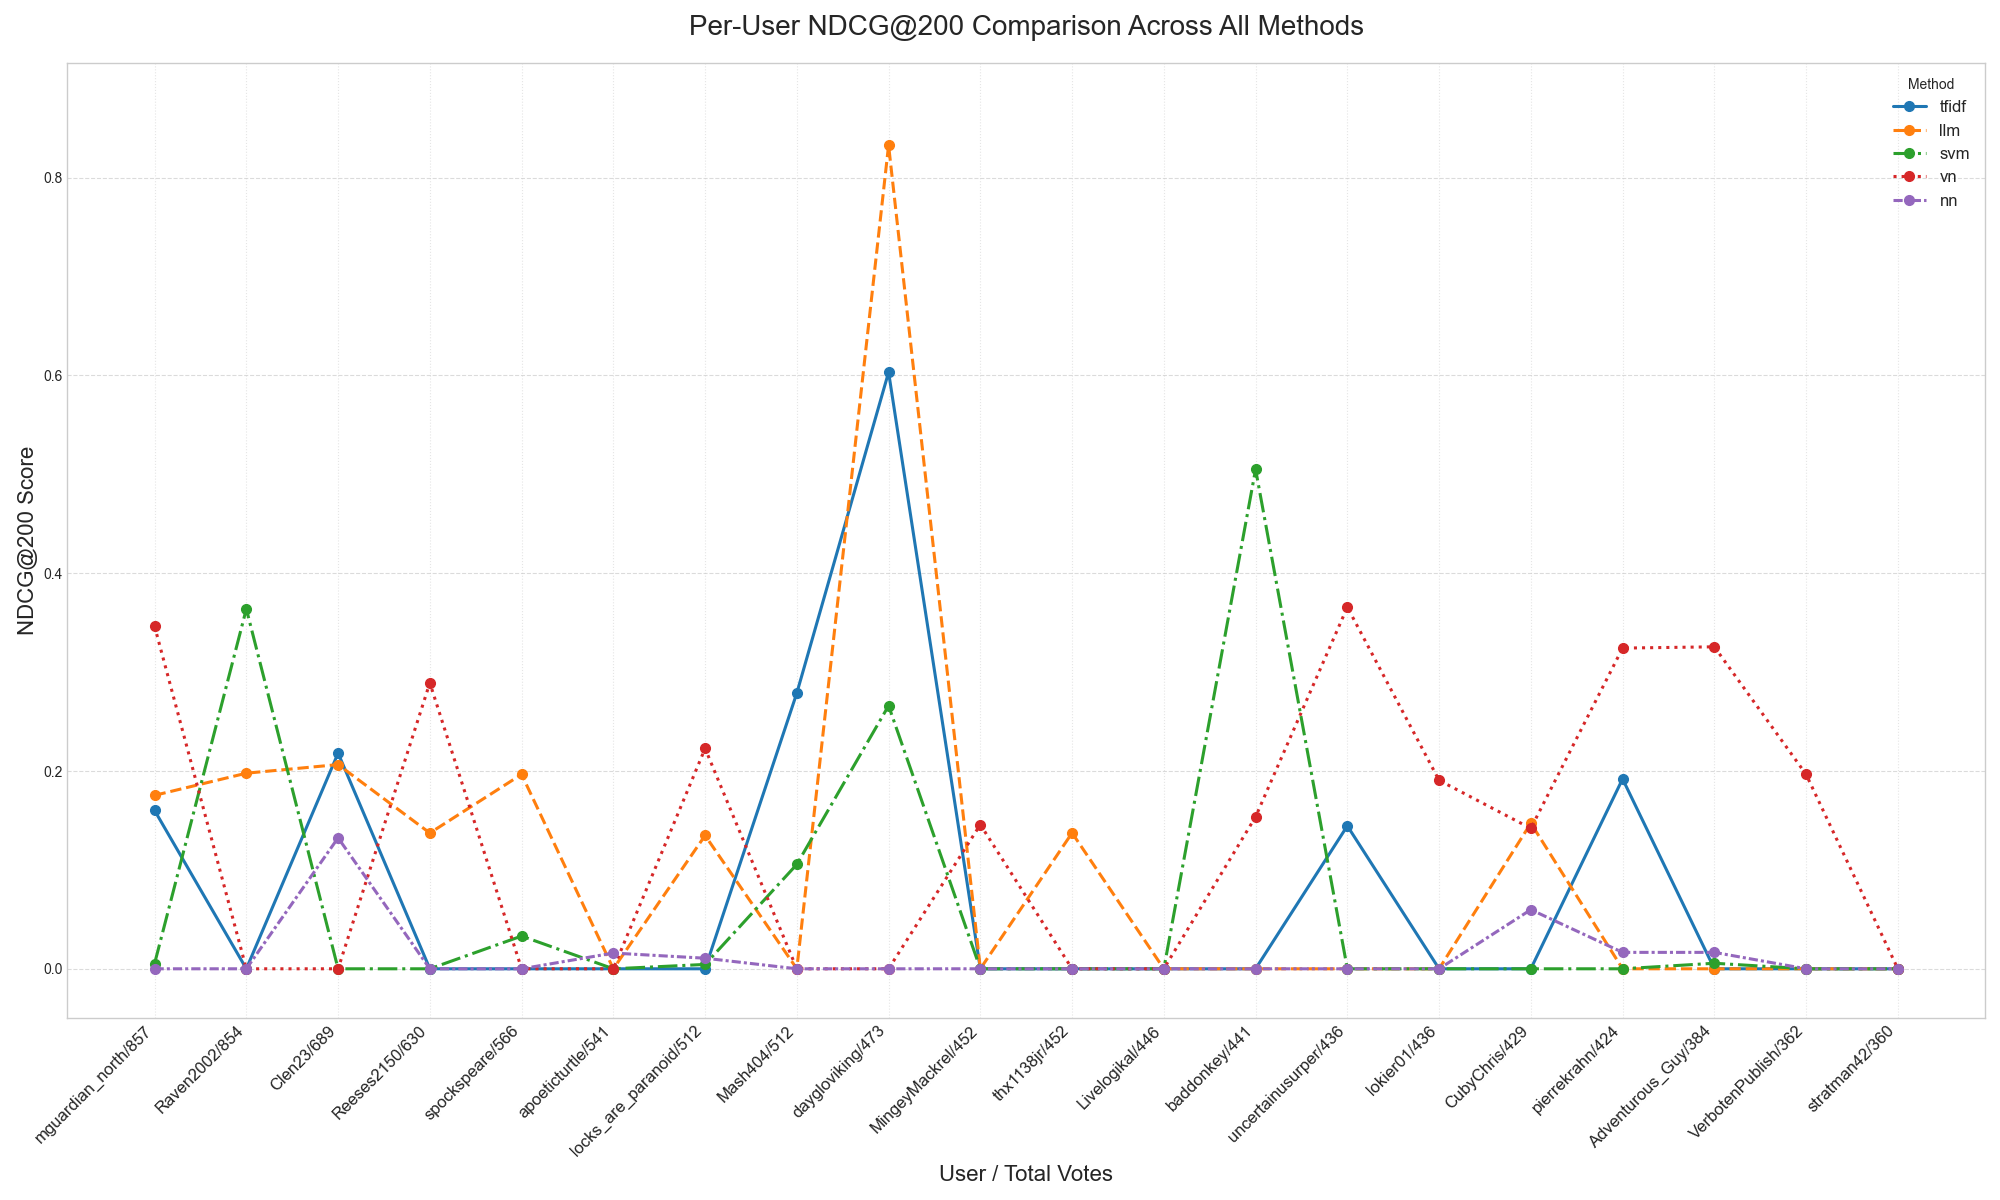
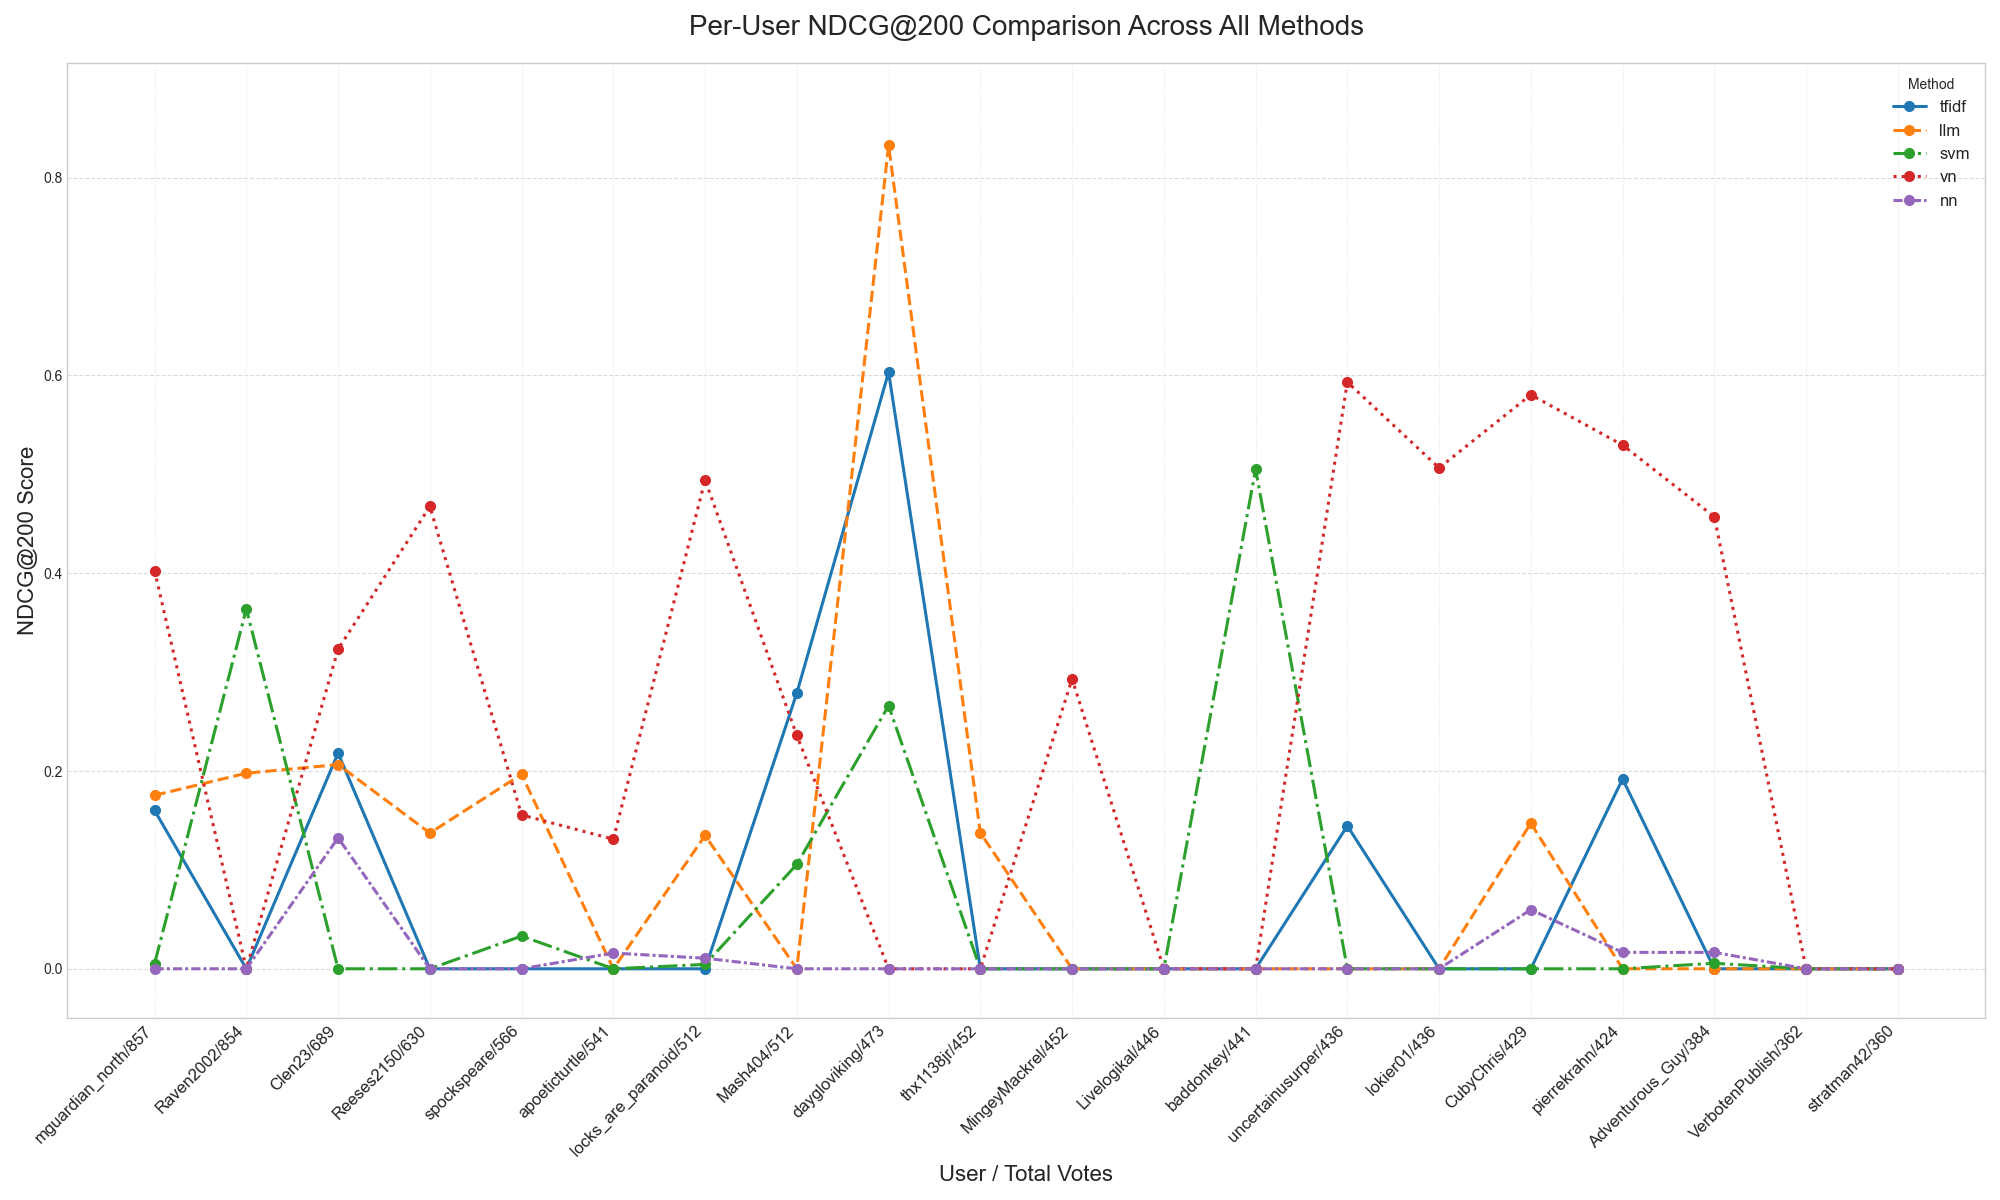
proj: Update results for VN

diff --git a/project/results/merge_and_plot.py b/project/results/merge_and_plot.py
@@ -155,3 +155,21 @@ def plot_method_comparison(results_df):
 
 # Call the plotting function with the final DataFrame
 plot_method_comparison(final_df)
+
+
+
+# --- 9. Calculate and Display Mean NDCG Scores ---
+print("\n--- Calculating Mean NDCG@200 Scores ---")
+
+# We use the final_df which has the rounded scores
+ndcg_columns = [col for col in final_df.columns if 'NDCG@200' in col]
+mean_scores = final_df[ndcg_columns].mean()
+
+# Rename the index for better readability
+mean_scores.index = [idx.replace('NDCG@200_', '') for idx in mean_scores.index]
+
+# Sort the results for a clear ranking
+mean_scores = mean_scores.sort_values(ascending=False)
+
+print("\nAverage NDCG@200 Score per Method:")
+print(mean_scores.to_string())

diff --git a/project/project-presentation-llm-and-results.md b/project/project-presentation-llm-and-results.md
@@ -32,27 +32,15 @@ These LLM-generated embeddings formed the core of one of our primary recommendat
 In our final evaluation, this LLM-based model was one of the top-performing methods, proving particularly effective for users with thematically consistent voting histories. This demonstrates the significant value of using deep semantic understanding for content-based recommendation.
 
 # 2. Results
+
 ## 2.1 Script
-(Start with the chart visible to the audience)
 
-We evaluated five different recommender models on posts from the r/Showerthoughts subreddit. We measured performance using NDCG@200, which tells us how good the top 200 recommendations are for a given user.
+Before diving into the results, it's important to justify our choice. So NDCG@200 provides a wider, more realistic window to evaluate a model's ability to rank relevant items highly, even if they don't appear in the absolute top positions. It also gives partial credit for placing a good item at rank 150 versus not finding it at all, making it a more suitable metric for this "needle in a haystack" problem.
 
-(Point to the overall chart)
+The standout of this analysis is Vector Negation. As seen in the chart, the red dotted line for VN achieves overall high scores for many users where other models struggled. The model doesn't just match personal taste; it also prioritizes content that is already validated and found engaging by the community, significantly increasing the likelihood of a successful recommendation.
 
-The first thing you'll notice from this chart is that there's no single winner. The performance of every model is extremely dependent on the individual user. For some users, we get great results, while for others, we get none at all, which probably indicates that user tastes in r/Showerthoughts are very personal and diversified thing.
+With that said, the LLM and TF-IDF models are still remarkable for users with consistent tastes, as seen with the user `daygloviking`. So when a user's upvotes are all tightly clustered around a single theme, a pure content-based approach is sufficient. However, for the more common "generalist" user, these models are hampered by their inability to leverage the powerful signal of a post's existing popularity.
 
-(Point to the peaks for daygloviking and baddonkey)
+As for the SVM and Neural Network, these models continue to be relatively niche performers, but occasionally finding success for specific users. For example `baddonky` showed outstanding performance for SVM.
 
-Let's look at where the models did well. For the user daygloviking, the LLM and TF-IDF models were outstanding. For baddonkey, the SVM model was the clear winner. This strongly suggests that these users have very consistent tastes. When a user’s upvotes have a clear theme, our models can build an accurate profile and find similar content.
-
-(Gesture to the users with zero scores)
-
-Now, let's talk about the most common result: a score of zero. This isn't necessarily a bug; it highlights two key challenges.
-
-First, this is a "needle in a haystack" problem. We're asking the model to find a few specific posts a user liked from a massive pool of over 95,000. That's incredibly difficult.
-
-Second, the nature of r/Showerthoughts means many users have very diverse tastes. They might upvote a philosophy post, a tech joke, and a pun all in one session. This creates a "blurry" taste profile that's hard for any content-based model to pin down.
-
-So while the LLM model showed the best average performance statistcally, no single model works for everyone. The classic TF-IDF is still very competitive, and niche models like SVM and Vector Negation can capture unique user tastes.
-
-For a real-world application, the best path forward would be a hybrid system—perhaps using a fast model like TF-IDF to get a list of candidates, and then using the deeper understanding of the LLM to re-rank those results for the user.
+Which really reminds us that for a real-world application, the best path forward would be a hybrid system — perhaps using a fast model like TF-IDF to get a list of candidates, and then using the deeper and more sophisticated methods to re-rank those results for the user.
